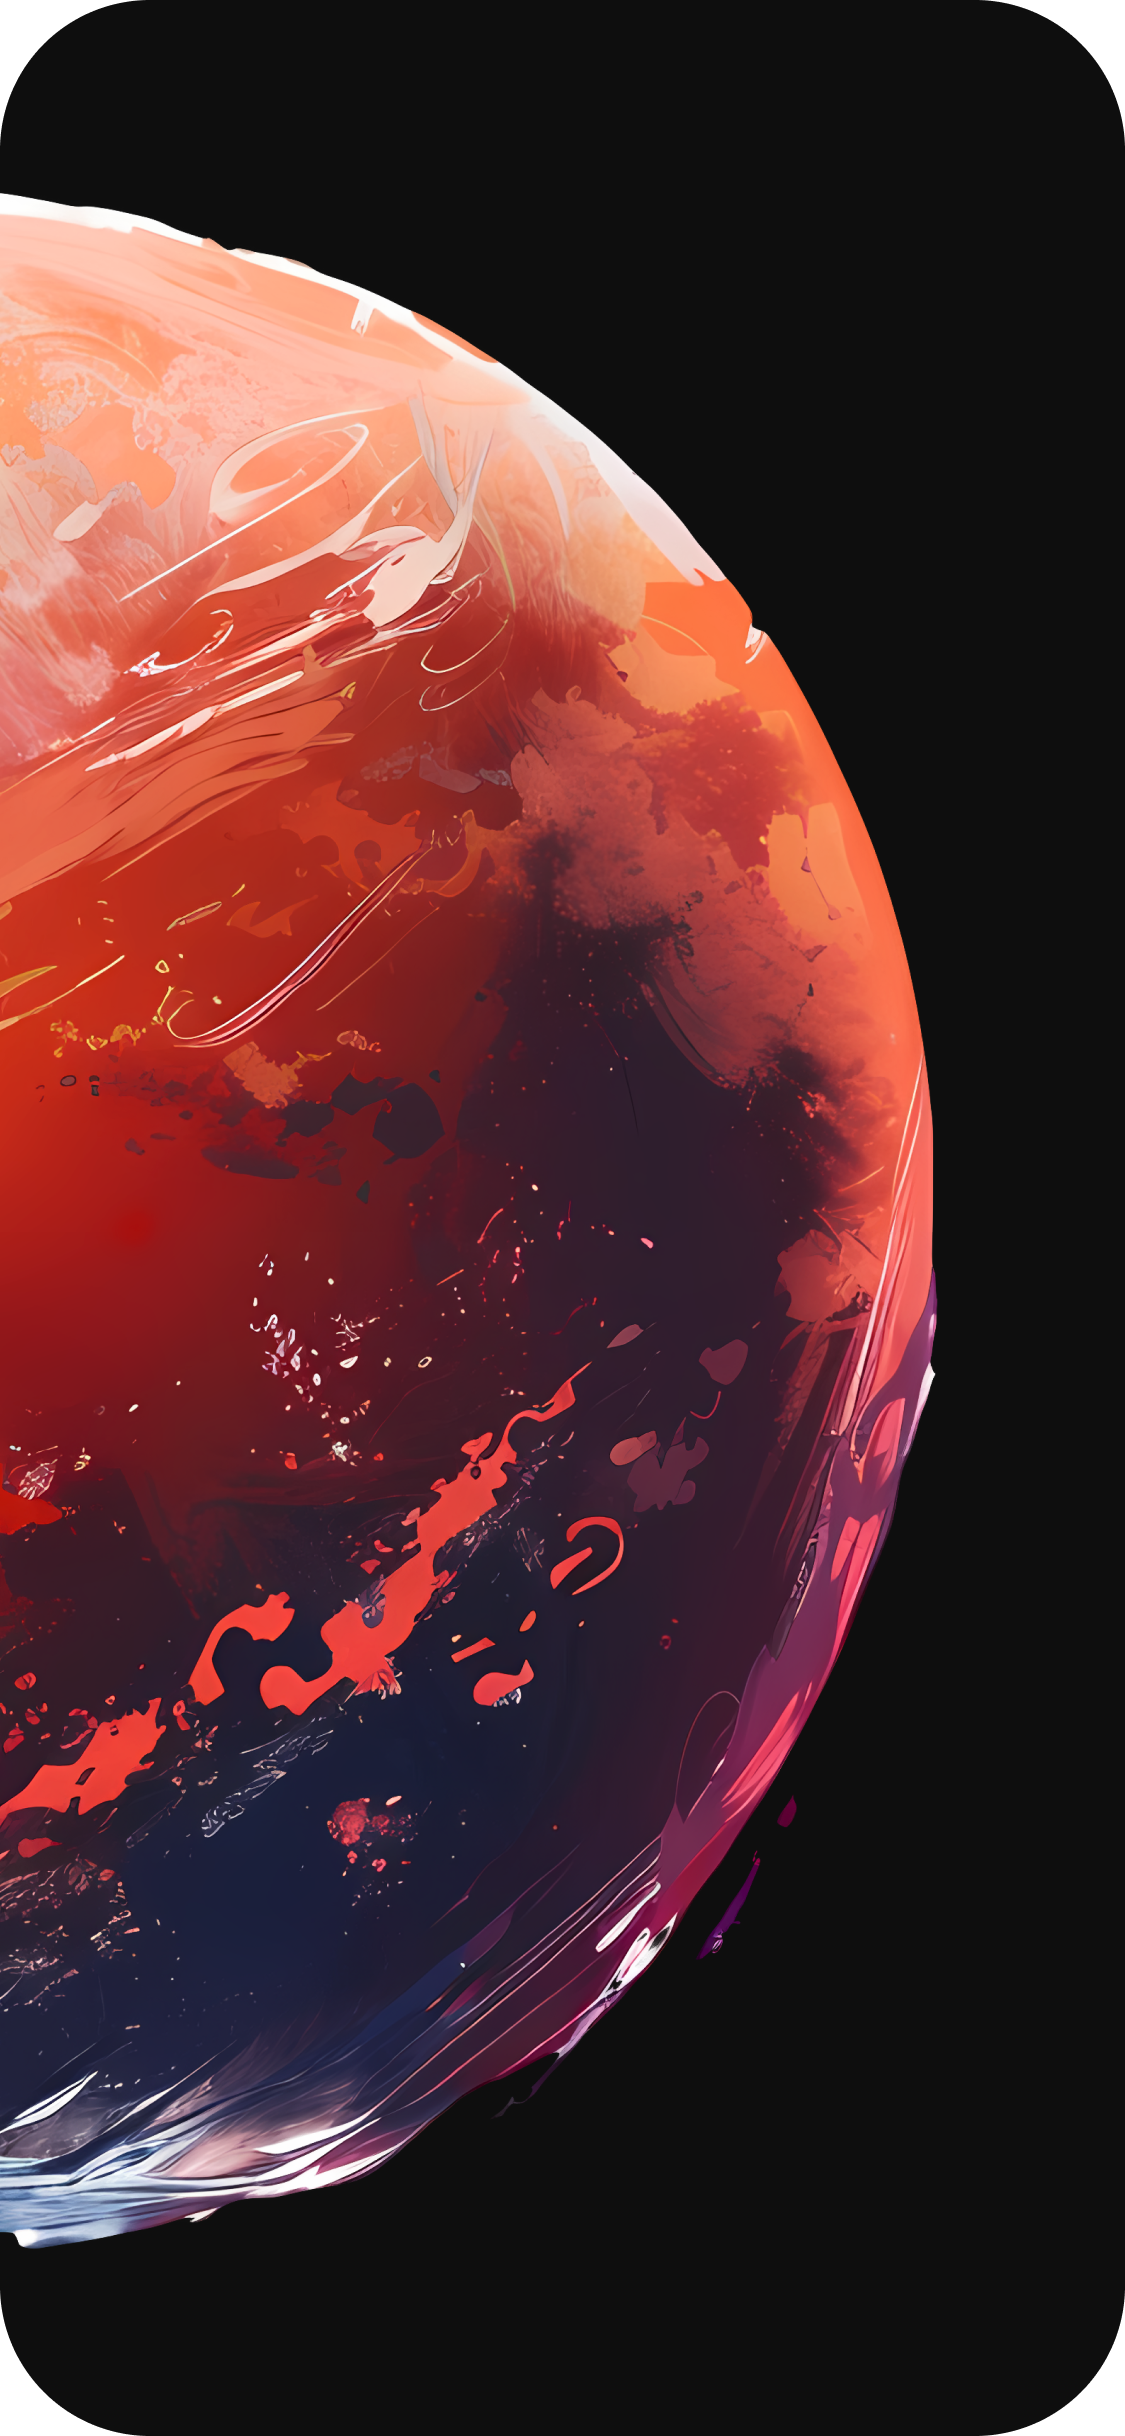
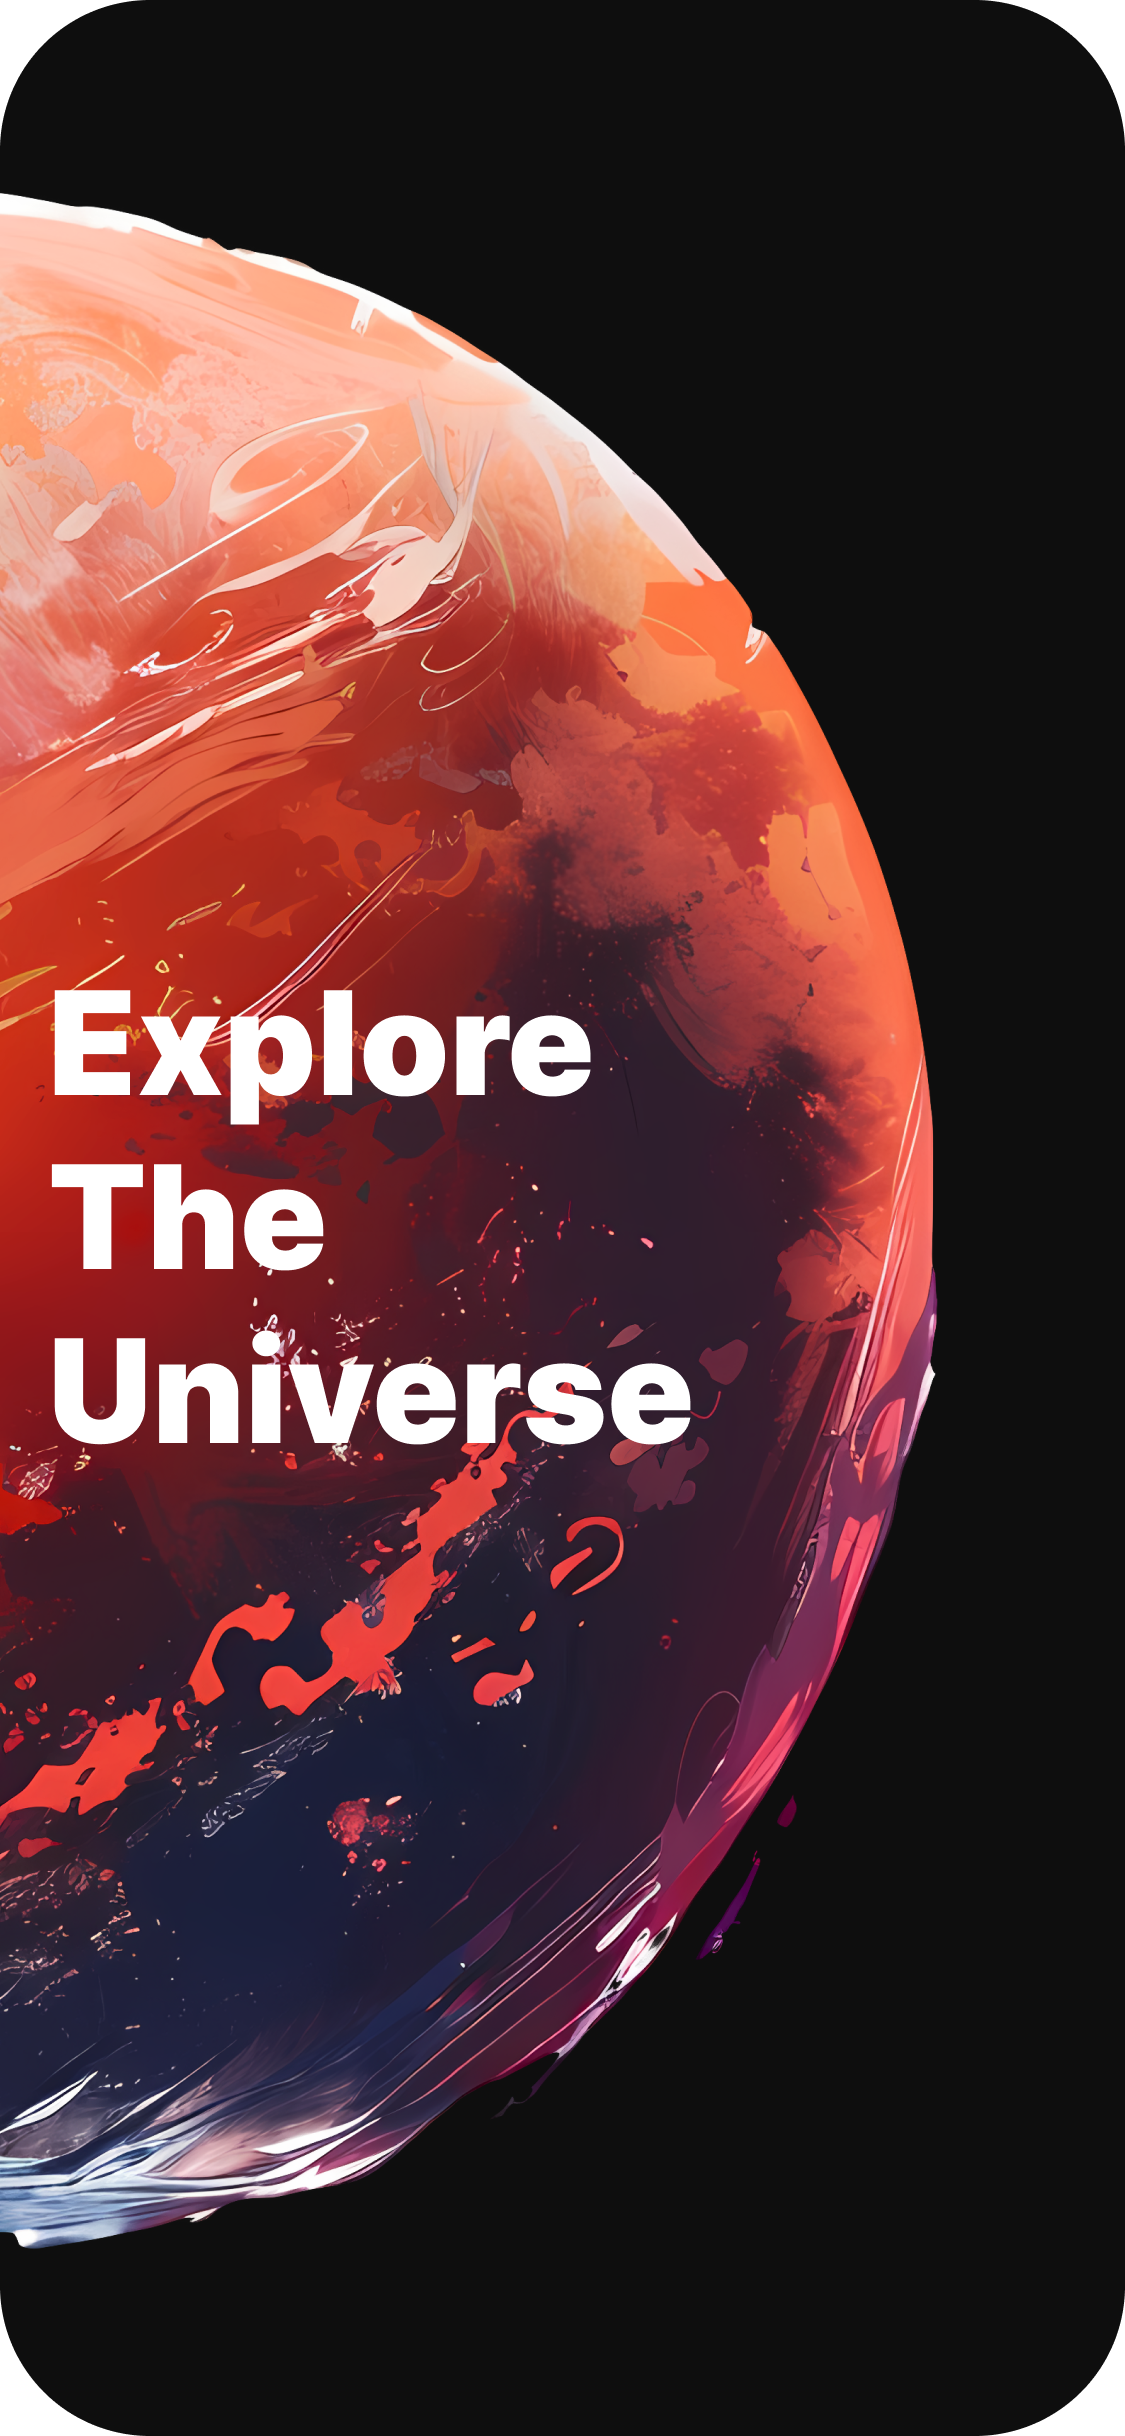
feat(login-screen): finished

Changed region(s): [[0.0311, 0.4056, 0.6222, 0.5928]]

diff --git a/lib/custom_matrial_button.dart b/lib/custom_matrial_button.dart
@@ -1,0 +1,49 @@
+import 'package:flutter/material.dart';
+import 'package:google_fonts/google_fonts.dart';
+import 'package:space/app_colors.dart';
+
+class CustomMatrialButton extends StatelessWidget {
+  const CustomMatrialButton({
+    super.key,
+    required this.text,
+    required this.onPressed,
+  });
+  final String text;
+  final void Function() onPressed;
+
+  @override
+  Widget build(BuildContext context) {
+    final size = MediaQuery.of(context).size;
+    return Positioned(
+      bottom: 22 / 812 * size.height,
+      left: 16 / 375 * size.width,
+      right: 16 / 375 * size.width,
+      child: MaterialButton(
+        onPressed: onPressed,
+        color: AppColors.primaryColor,
+        minWidth: size.width * 342 / 375,
+        height: 60 / 812 * size.height,
+        shape: RoundedRectangleBorder(
+          borderRadius: BorderRadius.circular(30 / 812 * size.height),
+        ),
+        child: Padding(
+          padding: const EdgeInsets.all(5.0),
+          child: Row(
+            mainAxisAlignment: MainAxisAlignment.spaceBetween,
+            children: [
+              Text(
+                text,
+                style: GoogleFonts.inter(
+                  color: AppColors.whiteColor,
+                  fontSize: 20,
+                  fontWeight: FontWeight.w600,
+                ),
+              ),
+              Icon(Icons.arrow_forward, color: AppColors.whiteColor),
+            ],
+          ),
+        ),
+      ),
+    );
+  }
+}

diff --git a/lib/login_screen.dart b/lib/login_screen.dart
@@ -1,4 +1,5 @@
 import 'package:flutter/material.dart';
+import 'package:space/custom_matrial_button.dart';
 
 class LoginScreen extends StatelessWidget {
   const LoginScreen({super.key});
@@ -6,13 +7,21 @@ class LoginScreen extends StatelessWidget {
   @override
   Widget build(BuildContext context) {
     return Scaffold(
-      body: Container(
-        decoration: BoxDecoration(
-          image: DecorationImage(
-            image: AssetImage('assets/images/backgrounds/Login.png'),
+      body: Stack(
+        children: [
+          Image.asset(
+            'assets/images/backgrounds/Login.png',
+            width: double.infinity,
+            height: double.infinity,
             fit: BoxFit.cover,
           ),
-        ),
+          CustomMatrialButton(
+            text: 'Explore',
+            onPressed: () {
+              Navigator.of(context).pushReplacementNamed('Home Screen');
+            },
+          ),
+        ],
       ),
     );
   }

diff --git a/lib/main.dart b/lib/main.dart
@@ -14,7 +14,7 @@ class SpaceApp extends StatelessWidget {
   Widget build(BuildContext context) {
     return MaterialApp(
       debugShowCheckedModeBanner: false,
-      initialRoute: HomeScreen.pageRoute,
+      initialRoute: LoginScreen.pageRoute,
       routes: {
         LoginScreen.pageRoute : (_) => LoginScreen(),
         PlanetDetailsScreen.pageRoute : (_) => PlanetDetailsScreen(),

diff --git a/lib/app_colors.dart b/lib/app_colors.dart
@@ -1,0 +1,5 @@
+import 'dart:ui';
+abstract class AppColors {
+  static const Color primaryColor = Color(0xFFEE403D);
+  static const Color whiteColor = Color(0xFFFFFFFF);
+}
